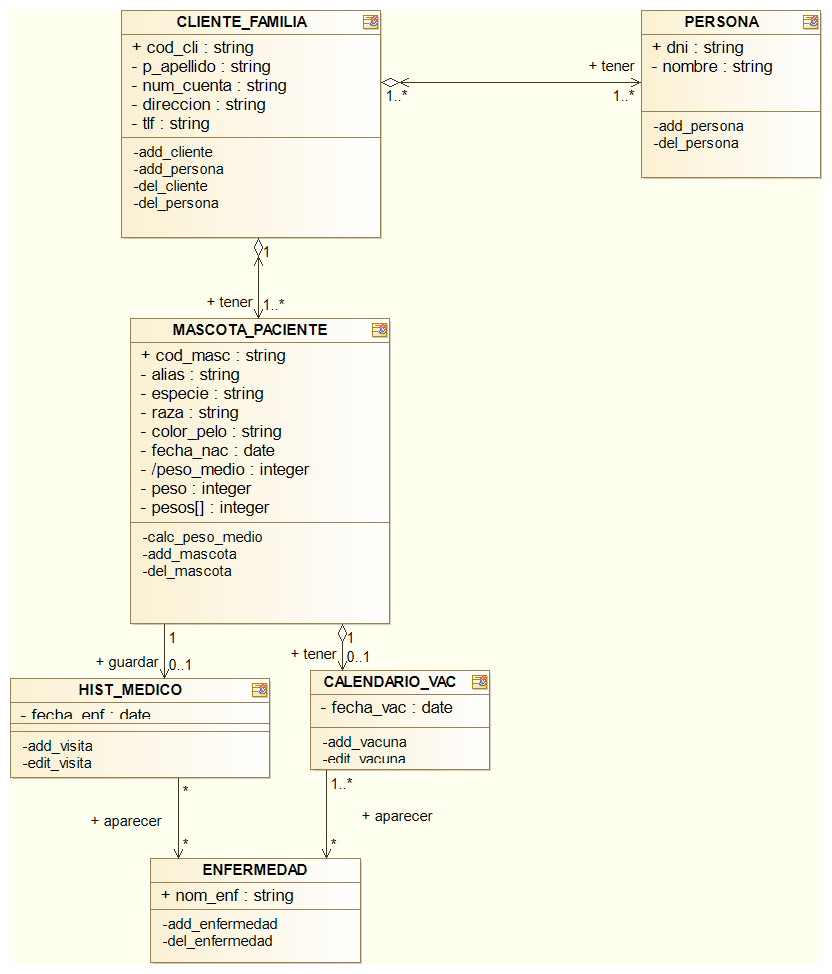
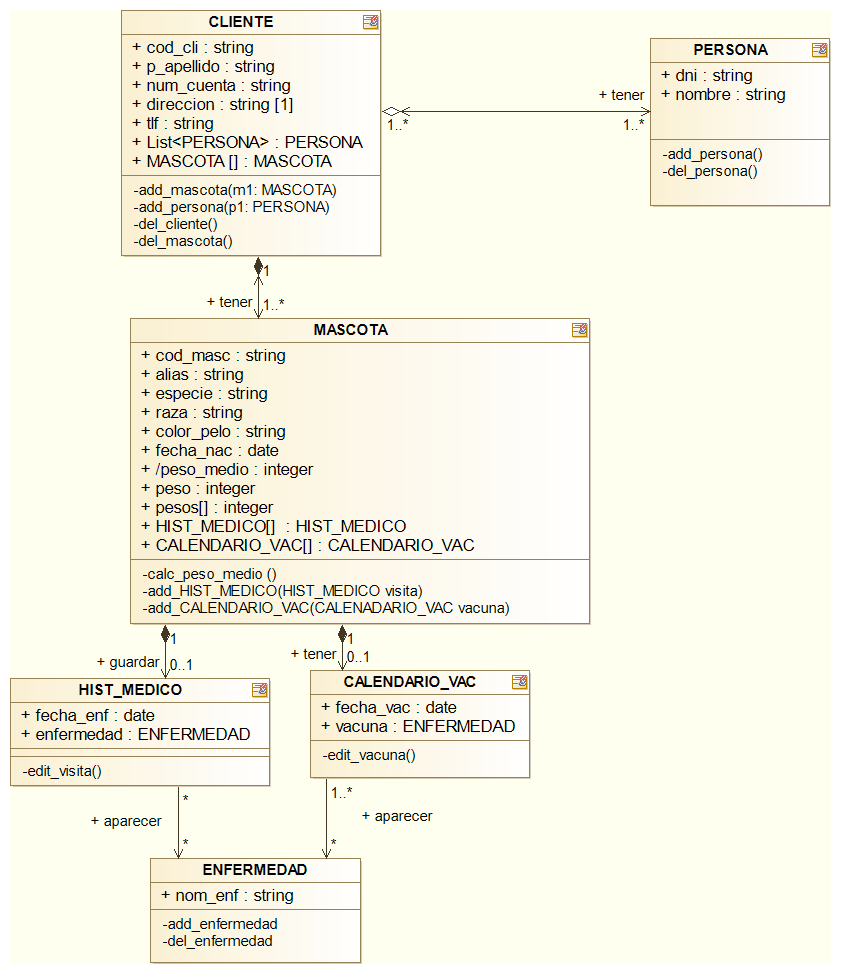
Correccion UML

diff --git a/uml/CLIENTE.java b/uml/CLIENTE.java
@@ -16,8 +16,18 @@ public class CLIENTE_FAMILIA {
     String num_cuenta;
     String direccion; 
     String tlf;   
+	List<PERSONA> persona=new PERSONA();
+	MASCOTA [] mascota = new MASCOTA();
     
 
+	public void add_mascota(MASCOTA mascota) {
+        this.MASCOTA=mascota;
+    }
+	
+	public void add_persona(PERSONA persona) {
+        this.PERSONA=persona;
+    }
+	
     public CLIENTE_FAMILIA(String cod_cli, String p_apellido, String num_cuenta, String direccion, String tlf) {
         this.cod_cli = cod_cli;
         this.p_apellido = p_apellido;

diff --git a/uml/MASCOTA.java b/uml/MASCOTA.java
@@ -23,6 +23,16 @@ public class MASCOTA_PACIENTE {
     float peso_actual;
     float peso_medio;
     float[] pesos; 
+	HIST_MEDICO[] = new HIST_MEDICO();
+	CALENDARIO_VAC[] = new CALENDARIO_VAC();
+	
+	
+	public add_HIST_MEDICO (HIST_MEDICO visita){
+		this.HIST_MEDICO=visita;
+	}
+	public add_CALENDARIO_VAC (CALENDARIO_VAC vacuna){
+		this.CALENDARIO_VAC=vacuna;
+	}
 
     public MASCOTA_PACIENTE(String cod_masc, String alias, String especie, String raza, String color_pelo, float peso_actual) {
         this.cod_masc = cod_masc;

diff --git a/uml/HIST_MEDICO.java b/uml/HIST_MEDICO.java
@@ -16,7 +16,11 @@ public class HIST_MEDICO {
     LocalDate fecha_visita;
     ENFERMEDAD enfermedad;
     
-    public HIST_MEDICO(LocalDate fecha_visita, ENFERMEDAD enfermedad) {
+    public add_enfermedad(ENFERMEDAD enfermedad){
+		this.ENFERMEDAD=enfermedad;
+	}
+	
+	public HIST_MEDICO(LocalDate fecha_visita, ENFERMEDAD enfermedad) {
         this.fecha_visita = fecha_visita;
         this.enfermedad = enfermedad;
     }

diff --git a/uml/CALENDARIO_VAC.java b/uml/CALENDARIO_VAC.java
@@ -16,6 +16,10 @@ public class CALENDARIO_VAC {
     LocalDate fecha_vac;
     ENFERMEDAD enfermedad;
 
+	public add_enfermedad(ENFERMEDAD enfermedad){
+		this.ENFERMEDAD=enfermedad;
+	}
+	
     public CALENDARIO_VAC(LocalDate fecha_vac, ENFERMEDAD enfermedad) {
         this.fecha_vac = fecha_vac;
         this.enfermedad = enfermedad;

diff --git a/uml/PERSONA.java b/uml/PERSONA.java
@@ -11,8 +11,8 @@ package vet;
  */
 public class PERSONA {
     
-    String dni;
-    String nombre;
+    public String dni;
+    public String nombre;
     
     public PERSONA(String dni, String nombre) {
         this.dni = dni;
